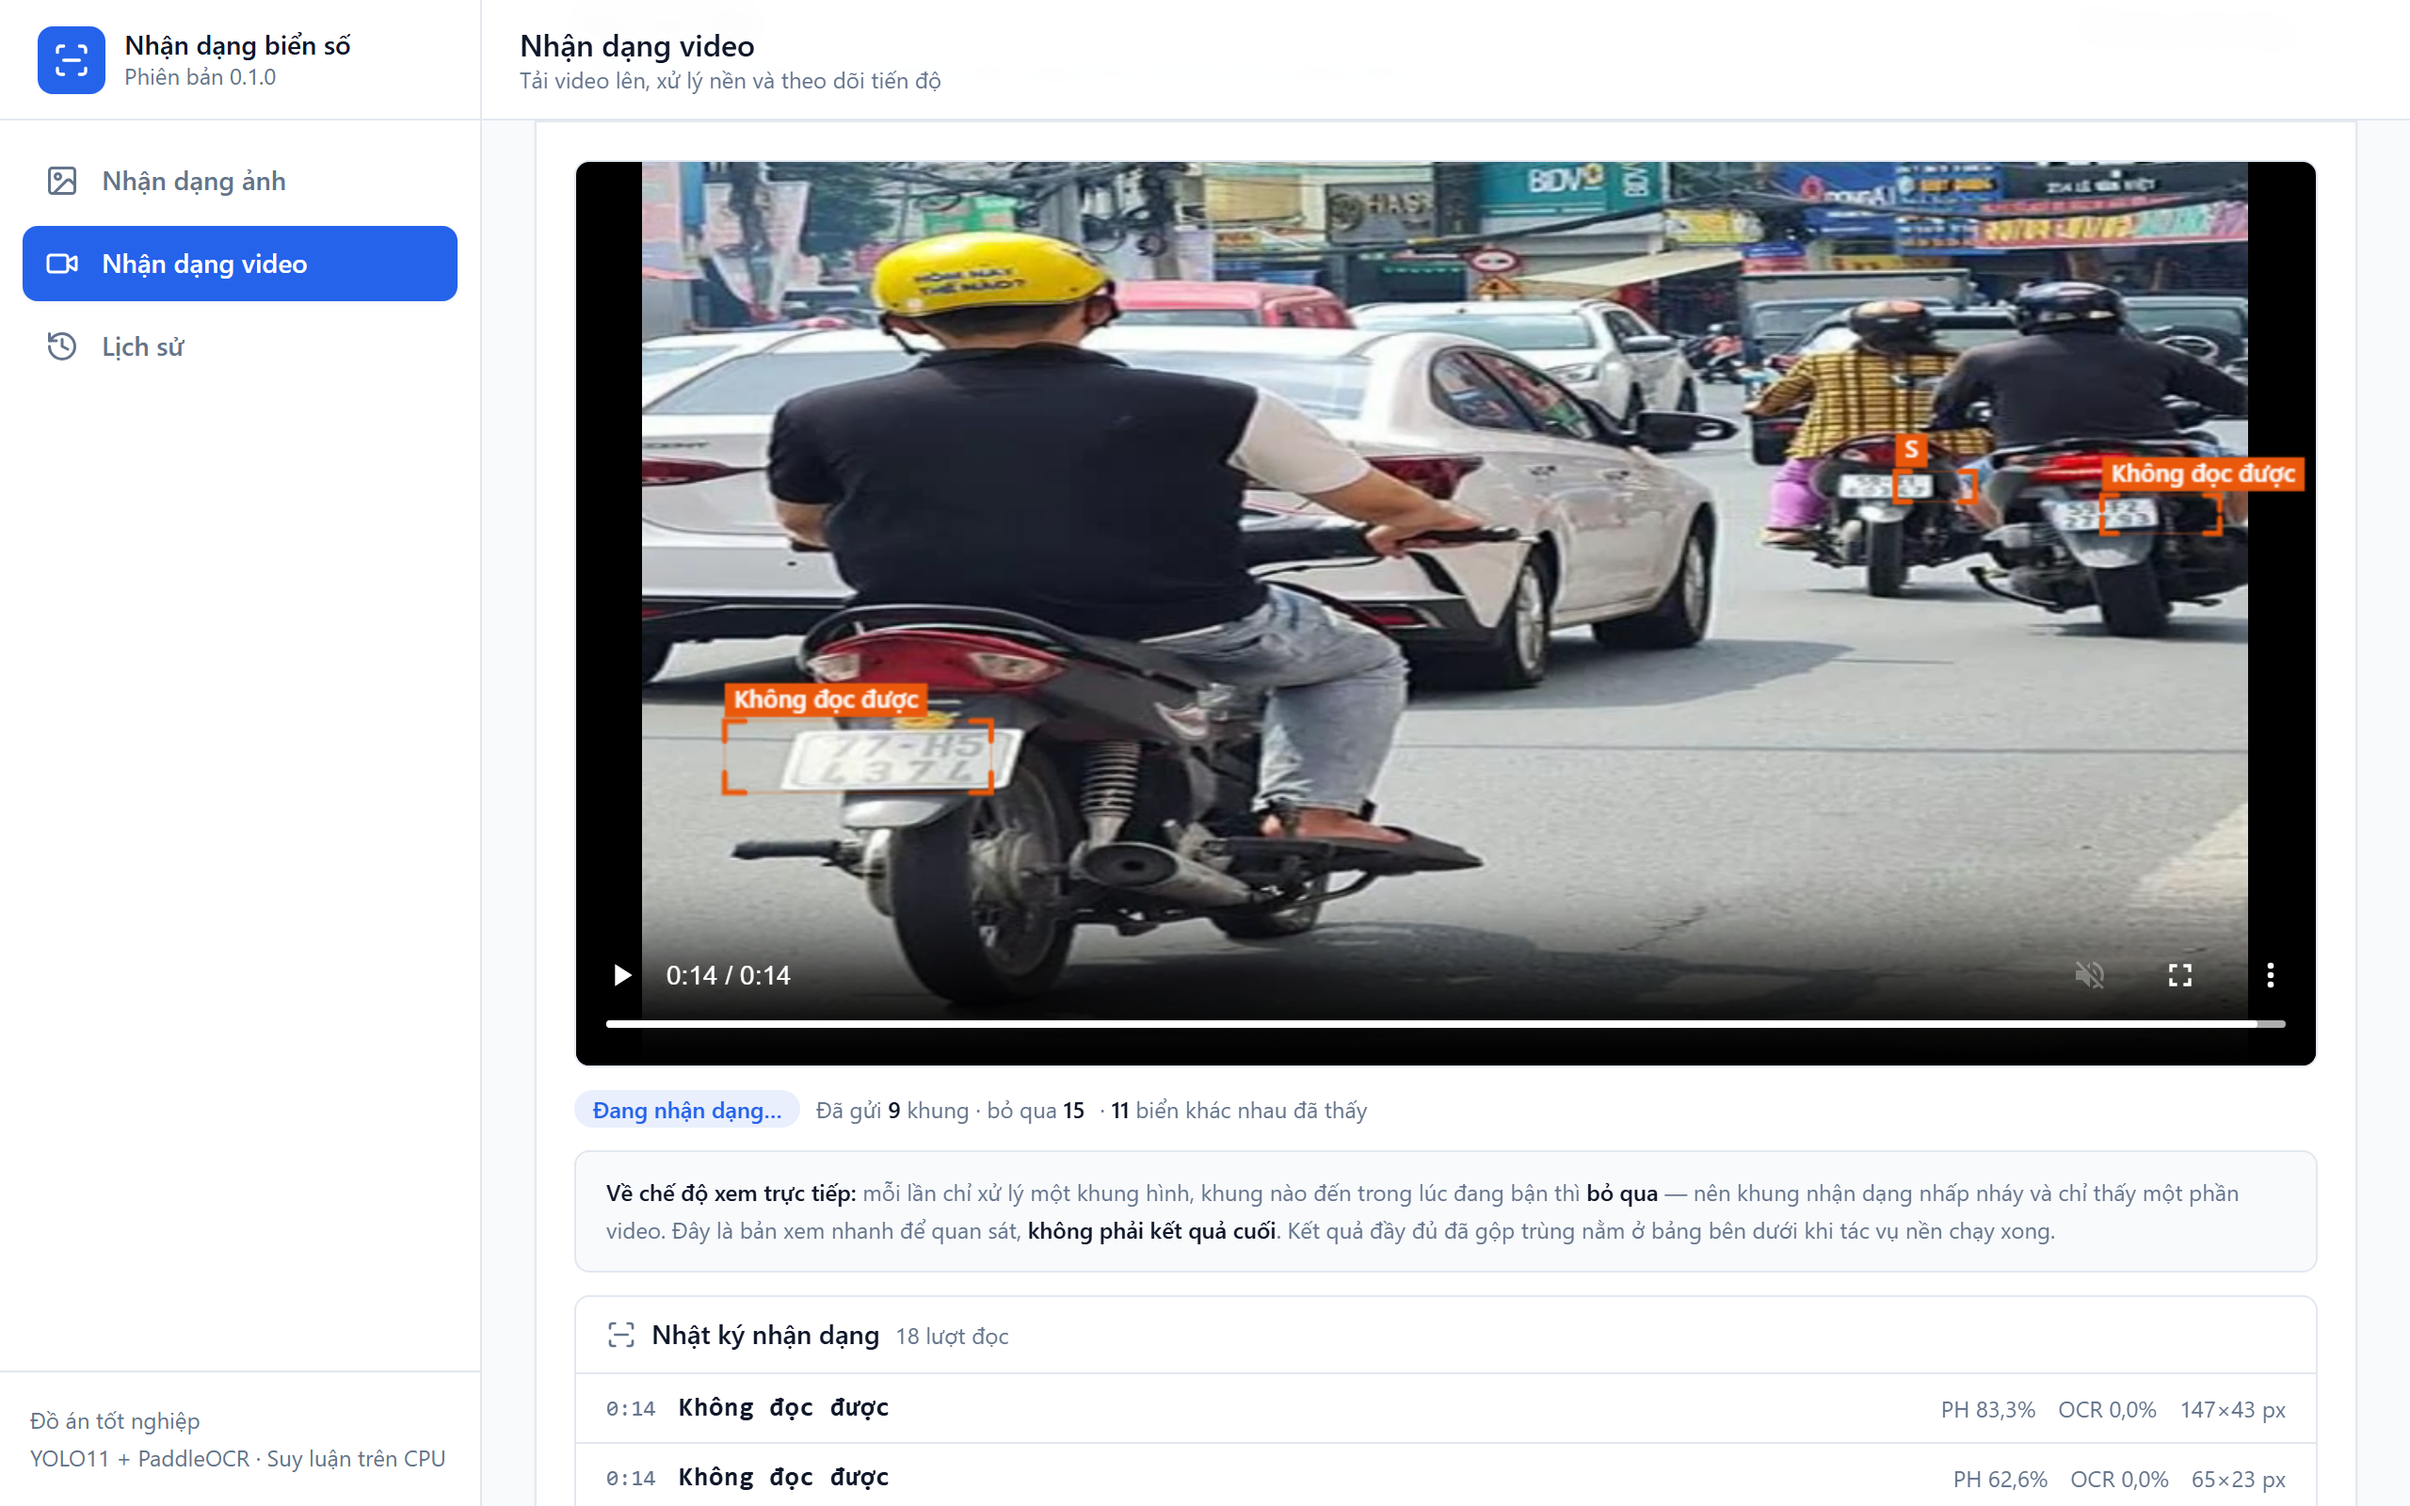
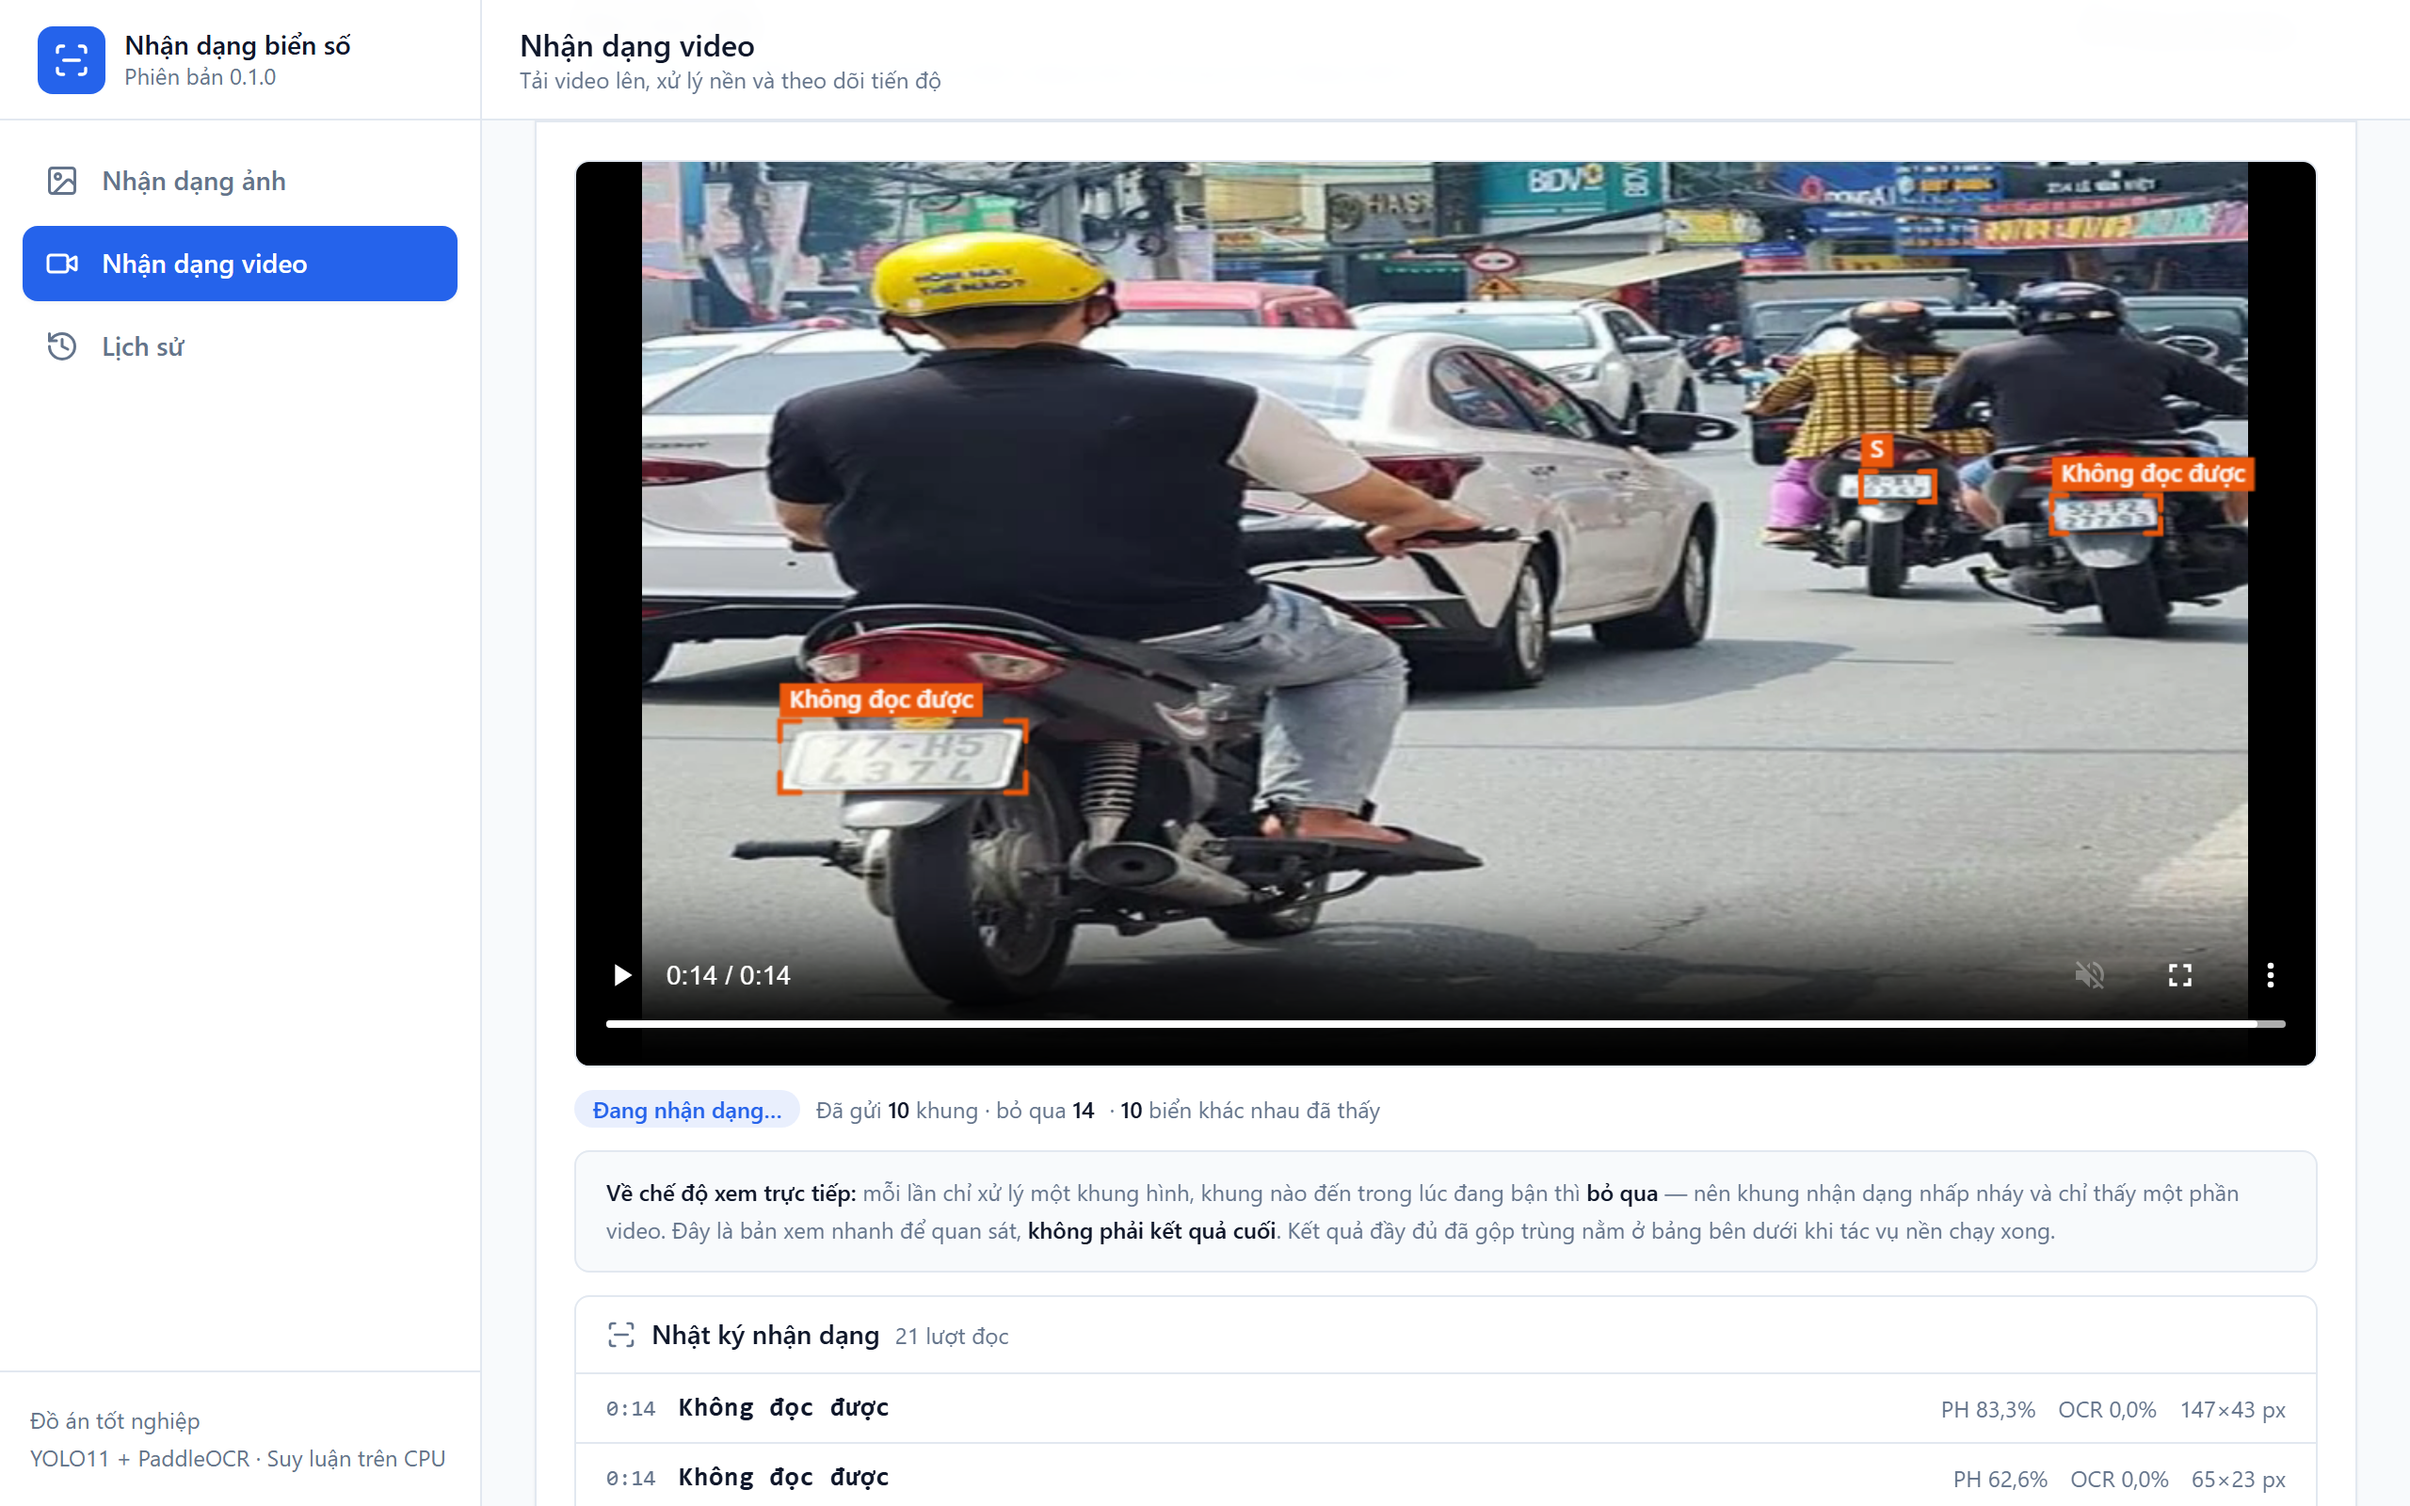
Sửa khung nhận dạng vẽ lệch khỏi biển số trên video có dải đen
Thẻ video giữ nguyên tỷ lệ khung hình gốc và căn giữa ảnh trong thẻ, phần thừa
lấp bằng dải đen. Lớp phủ canvas thì trải kín cả thẻ, nên khi chia tỷ lệ theo
kích thước thẻ, mọi hộp bị kéo giãn qua cả phần dải đen và trượt khỏi biển số.
Hộp dạt sang trái, và ở khung nhìn rộng thì có hộp rơi hẳn vào vùng đen — nơi
không hề có hình ảnh nào.

Điều đó khiến lỗi vẽ trông như lỗi nhận dạng: người xem thấy hệ thống khoanh
vào chỗ trống và kết luận bộ phát hiện sai, trong khi toạ độ trả về hoàn toàn
đúng.

Giờ chia tỷ lệ theo hình chữ nhật CHỨA ẢNH chứ không theo thẻ, và cộng thêm
độ lệch của dải đen. Đo ở khung nhìn 1700x820: thẻ 1344x492 tỷ lệ 2,73 trong
khi ảnh gốc 960x540 tỷ lệ 1,78 — chênh lệch lớn nhất có thể gặp, và ba hộp
đều ôm đúng biển sau khi sửa.

Changed region(s): [[0.75, 0.2812, 0.9688, 0.375], [0.2812, 0.4375, 0.4375, 0.5312], [0.375, 0.7188, 0.5625, 0.75]]

diff --git a/frontend/src/components/detection/video/LiveVideoPanel.tsx b/frontend/src/components/detection/video/LiveVideoPanel.tsx
@@ -176,13 +176,29 @@ export function LiveVideoPanel({ file }: LiveVideoPanelProps): JSX.Element {
       if (frameWidth === 0 || frameHeight === 0) {
         return;
       }
-      const scaleX = width / frameWidth;
-      const scaleY = height / frameHeight;
+
+      // A <video> letterboxes: it preserves the source aspect ratio and centres
+      // the picture inside the element, padding the remainder with black. The
+      // canvas covers the whole element, so scaling by the element's size
+      // stretches every box across the padding as well and slides it away from
+      // the plate — boxes drift left and can land entirely inside a black bar,
+      // which reads as a detector fault rather than a drawing one.
+      //
+      // Scale against the *picture* rectangle and offset by the padding.
+      const frameAspect = frameWidth / frameHeight;
+      const elementAspect = width / height;
+      const pictureWidth = elementAspect > frameAspect ? height * frameAspect : width;
+      const pictureHeight = elementAspect > frameAspect ? height : width / frameAspect;
+      const offsetX = (width - pictureWidth) / 2;
+      const offsetY = (height - pictureHeight) / 2;
+
+      const scaleX = pictureWidth / frameWidth;
+      const scaleY = pictureHeight / frameHeight;
 
       for (const result of results) {
         const colour = result.is_valid_format ? BOX_COLOURS.valid : BOX_COLOURS.invalid;
-        const x = result.bbox.x * scaleX;
-        const y = result.bbox.y * scaleY;
+        const x = offsetX + result.bbox.x * scaleX;
+        const y = offsetY + result.bbox.y * scaleY;
         const w = result.bbox.width * scaleX;
         const h = result.bbox.height * scaleY;
 
